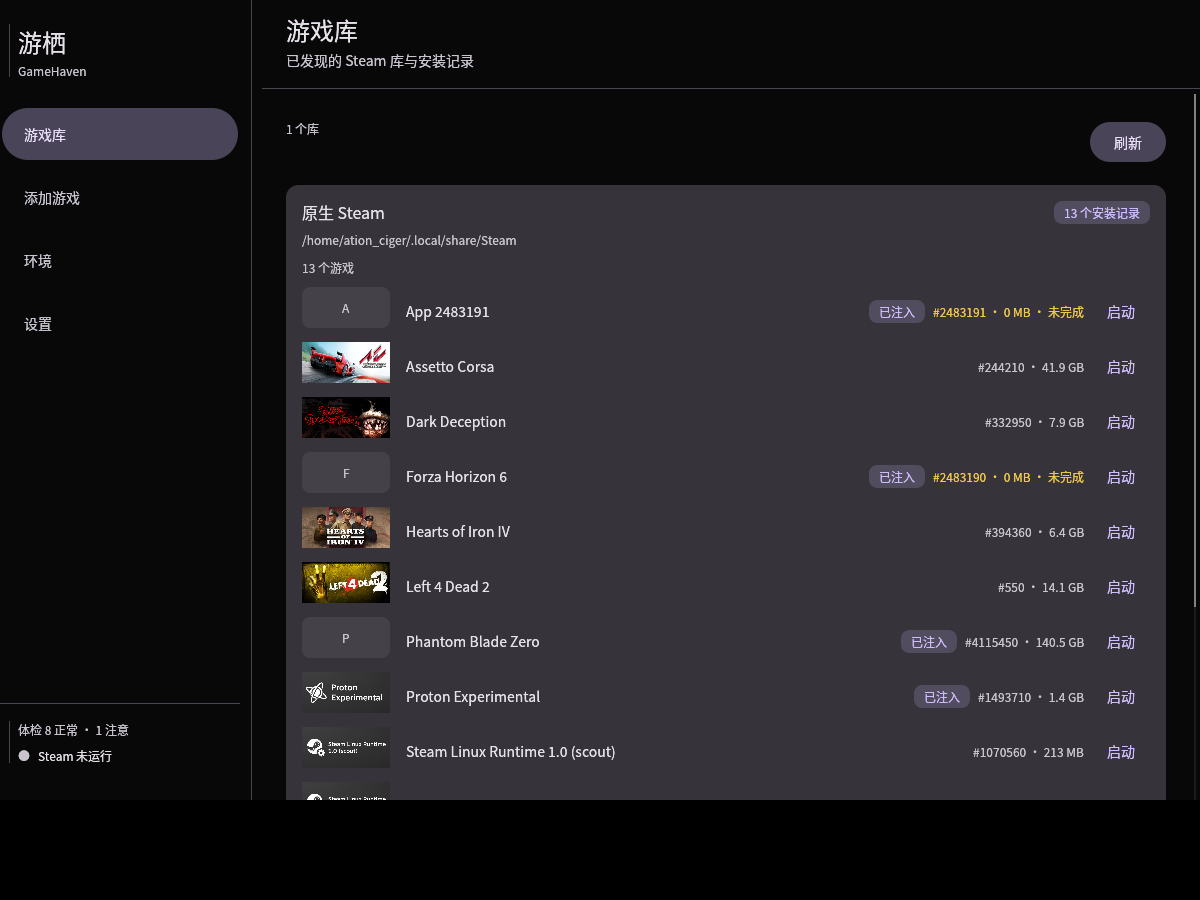
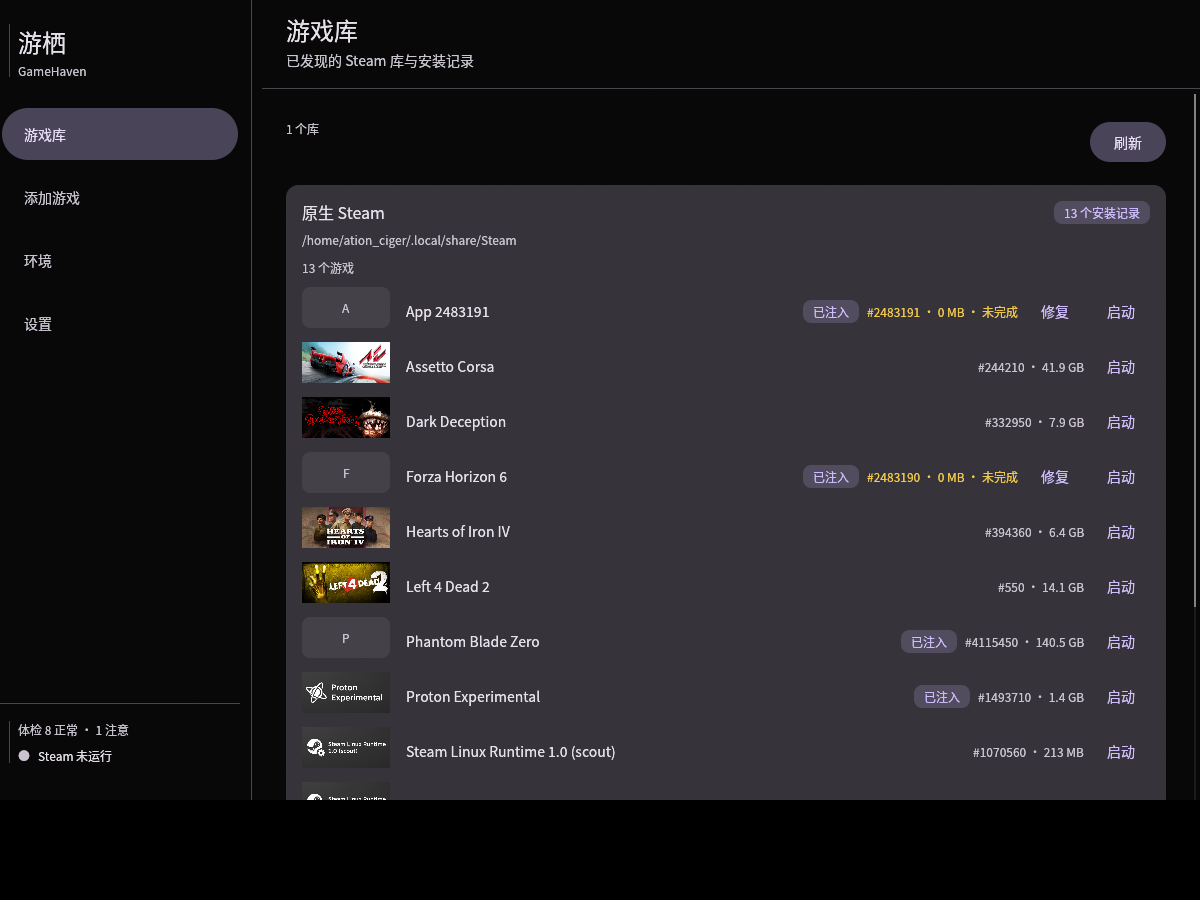
feat: repair incomplete ACF from actual files
- acf 模块新增 repair / dir_size：按目录实际大小重写 SizeOnDisk、StateFlags、LastUpdated
- 库页未完成记录新增「修复」，后台计算目录大小并重写 ACF
- 修复结果与启动结果统一显示在列表下方

Changed region(s): [[0.6475, 0.4978, 0.8942, 0.56], [0.6475, 0.3111, 0.8942, 0.3733]]

diff --git a/src/steam/acf.rs b/src/steam/acf.rs
@@ -35,6 +35,58 @@ pub fn path(steamapps: &Path, app_id: u32) -> PathBuf {
     steamapps.join(format!("appmanifest_{app_id}.acf"))
 }
 
+/// 递归统计目录大小，跳过符号链接，避免循环。
+pub fn dir_size(path: &Path) -> u64 {
+    let Ok(entries) = fs::read_dir(path) else {
+        return 0;
+    };
+    let mut total = 0;
+    for entry in entries.flatten() {
+        let Ok(metadata) = fs::symlink_metadata(entry.path()) else {
+            continue;
+        };
+        if metadata.file_type().is_symlink() {
+            continue;
+        }
+        if metadata.is_dir() {
+            total += dir_size(&entry.path());
+        } else if metadata.is_file() {
+            total += metadata.len();
+        }
+    }
+    total
+}
+
+/// 按实际目录大小修复已有 ACF 的 `SizeOnDisk` / `StateFlags` / `LastUpdated`。
+pub fn repair(steamapps: &Path, app_id: u32, size_on_disk: u64) -> Result<PathBuf, String> {
+    let target = path(steamapps, app_id);
+    let text = fs::read_to_string(&target)
+        .map_err(|error| format!("无法读取 {}：{error}", target.display()))?;
+    let now = SystemTime::now()
+        .duration_since(UNIX_EPOCH)
+        .map(|duration| duration.as_secs())
+        .unwrap_or(0);
+    let mut lines: Vec<String> = text.lines().map(str::to_owned).collect();
+    for line in &mut lines {
+        let trimmed = line.trim_start();
+        if trimmed.starts_with("\"SizeOnDisk\"") {
+            *line = format!("\t\"SizeOnDisk\"\t\t\"{size_on_disk}\"");
+        } else if trimmed.starts_with("\"StateFlags\"") {
+            *line = "\t\"StateFlags\"\t\t\"4\"".to_owned();
+        } else if trimmed.starts_with("\"LastUpdated\"") {
+            *line = format!("\t\"LastUpdated\"\t\t\"{now}\"");
+        }
+    }
+    let backup = target.with_extension("acf.bak");
+    fs::copy(&target, &backup)
+        .map_err(|error| format!("无法备份 {}：{error}", backup.display()))?;
+    let mut output = lines.join("\n");
+    output.push('\n');
+    fs::write(&target, output)
+        .map_err(|error| format!("无法写入 {}：{error}", target.display()))?;
+    Ok(target)
+}
+
 pub fn write(steamapps: &Path, game: &GameInfo<'_>) -> Result<PathBuf, String> {
     let target = path(steamapps, game.app_id);
     if let Some(parent) = target.parent() {
@@ -117,6 +169,32 @@ mod tests {
         assert_eq!(sanitize_installdir("Forza Horizon 6"), "Forza Horizon 6");
         assert_eq!(sanitize_installdir("a/b:c*?"), "a_b_c__");
         assert_eq!(sanitize_installdir("  ..  "), "Game");
+    }
+
+    #[test]
+    fn repairs_size_and_state_flags() {
+        let directory = tempfile::tempdir().unwrap();
+        let steamapps = directory.path();
+        let target = path(steamapps, 10);
+        fs::write(
+            &target,
+            "\"AppState\"\n{\n\t\"StateFlags\"\t\t\"0\"\n\t\"SizeOnDisk\"\t\t\"0\"\n\t\"InstalledDepots\"\n\t{\n\t}\n}\n",
+        )
+        .unwrap();
+        repair(steamapps, 10, 4096).unwrap();
+        let text = fs::read_to_string(&target).unwrap();
+        assert!(text.contains("\"SizeOnDisk\"\t\t\"4096\""));
+        assert!(text.contains("\"StateFlags\"\t\t\"4\""));
+        assert!(target.with_extension("acf.bak").exists());
+    }
+
+    #[test]
+    fn sums_directory_size() {
+        let directory = tempfile::tempdir().unwrap();
+        fs::write(directory.path().join("a.bin"), vec![0u8; 100]).unwrap();
+        fs::create_dir(directory.path().join("sub")).unwrap();
+        fs::write(directory.path().join("sub/b.bin"), vec![0u8; 50]).unwrap();
+        assert_eq!(dir_size(directory.path()), 150);
     }
 
     #[test]

diff --git a/src/main.rs b/src/main.rs
@@ -52,6 +52,12 @@ impl Page {
     }
 }
 
+pub(crate) enum RepairJob {
+    Idle,
+    Running(Receiver<Result<String, String>>),
+    Done(Result<String, String>),
+}
+
 pub(crate) enum RestartState {
     Idle,
     Running(Receiver<Result<String, String>>),
@@ -247,6 +253,7 @@ pub(crate) struct GameHaven {
     pub(crate) remove_result: Option<Result<String, String>>,
     pub(crate) account_result: Option<Result<String, String>>,
     pub(crate) launch_result: Option<Result<String, String>>,
+    pub(crate) repair: RepairJob,
     pub(crate) auto_restart: bool,
 }
 
@@ -321,6 +328,7 @@ impl GameHaven {
             remove_result: None,
             account_result: None,
             launch_result: None,
+            repair: RepairJob::Idle,
             auto_restart: true,
         })
     }
@@ -331,6 +339,7 @@ impl GameHaven {
         self.covers.poll(ctx);
         self.env.poll(ctx);
         self.poll_restart(ctx);
+        self.poll_repair(ctx);
         self.download.poll(ctx, &mut self.app_id);
     }
 
@@ -443,6 +452,55 @@ impl GameHaven {
             self.env.refresh(ctx);
         } else {
             self.remove_result = Some(Err(errors.join(" ")));
+        }
+    }
+
+    pub(crate) fn start_repair(
+        &mut self,
+        library: &steam_library::Library,
+        app_id: u32,
+        installdir: &str,
+        ctx: &egui::Context,
+    ) {
+        if matches!(self.repair, RepairJob::Running(_)) {
+            return;
+        }
+        let steamapps = library.path.join("steamapps");
+        let game_dir = steamapps.join("common").join(installdir);
+        let ctx = ctx.clone();
+        let (sender, receiver) = mpsc::sync_channel(1);
+        match thread::Builder::new()
+            .name("steam-acf".into())
+            .spawn(move || {
+                let size = steam::acf::dir_size(&game_dir);
+                let result = steam::acf::repair(&steamapps, app_id, size).map(|path| {
+                    journal::record(&format!("修复 ACF：{app_id}，SizeOnDisk {size}"));
+                    format!("已修复 {}（{} 字节）。", path.display(), size)
+                });
+                let _ = sender.send(result);
+                ctx.request_repaint();
+            }) {
+            Ok(_) => self.repair = RepairJob::Running(receiver),
+            Err(error) => {
+                self.repair = RepairJob::Done(Err(format!("无法启动修复任务（{error}）。")));
+            }
+        }
+    }
+
+    fn poll_repair(&mut self, ctx: &egui::Context) {
+        let result = match &self.repair {
+            RepairJob::Running(receiver) => match receiver.try_recv() {
+                Ok(result) => Some(result),
+                Err(TryRecvError::Empty) => {
+                    ctx.request_repaint_after(Duration::from_millis(200));
+                    None
+                }
+                Err(TryRecvError::Disconnected) => Some(Err("修复任务意外结束。".to_owned())),
+            },
+            _ => None,
+        };
+        if let Some(result) = result {
+            self.repair = RepairJob::Done(result);
         }
     }
 

diff --git a/src/pages/library.rs b/src/pages/library.rs
@@ -14,12 +14,18 @@ use crate::widgets;
 ///
 /// `game_row` 是自由函数，拿不到 `&mut GameHaven`，所以行内只返回动作，由页面层收集后统一下发。
 /// 「启动」需要知道走哪个客户端，因此带上库索引。
-#[derive(Clone, Copy)]
+#[derive(Clone)]
 enum RowAction {
     /// 二次确认后移除这个 AppID 的注入。
     Remove(u32),
     /// 用 `libraries[library]` 对应的客户端启动 `app_id`。
     Launch { library: usize, app_id: u32 },
+    /// 按实际目录大小修复这个 AppID 的 ACF。
+    Repair {
+        library: usize,
+        app_id: u32,
+        installdir: String,
+    },
 }
 
 impl GameHaven {
@@ -78,6 +84,15 @@ impl GameHaven {
                         self.launch_game(library, app_id);
                     }
                 }
+                RowAction::Repair {
+                    library,
+                    app_id,
+                    installdir,
+                } => {
+                    if let Some(library) = libraries.get(library) {
+                        self.start_repair(library, app_id, &installdir, &ctx);
+                    }
+                }
             }
         }
 
@@ -86,6 +101,9 @@ impl GameHaven {
             result_line(ui, result);
         }
         if let Some(result) = &self.launch_result {
+            result_line(ui, result);
+        }
+        if let crate::RepairJob::Done(result) = &self.repair {
             result_line(ui, result);
         }
 
@@ -218,6 +236,16 @@ fn game_row(
                 action = Some(RowAction::Launch {
                     library: library_index,
                     app_id: app.app_id,
+                });
+            }
+            // 未完成的记录可以按实际目录大小重写 ACF。
+            if incomplete
+                && widgets::text_button(ui, &format!("repair-{}", app.app_id), "修复")
+            {
+                action = Some(RowAction::Repair {
+                    library: library_index,
+                    app_id: app.app_id,
+                    installdir: app.installdir.clone(),
                 });
             }
             ui.label(RichText::new(meta).size(design::TEXT_LABEL).color(variant));

diff --git a/README.md b/README.md
@@ -25,7 +25,7 @@ X11 与 Wayland 都可以运行。
 
 | 页面 | 能做什么 |
 | --- | --- |
-| 游戏库 | 发现原生 / Flatpak Steam 库；列出 `appmanifest` 里的已安装游戏、占用空间和「未完成」标记；标出已注入 SLSsteam 的游戏，点击标记可移除注入 |
+| 游戏库 | 发现原生 / Flatpak Steam 库；加载封面，列出已安装游戏、占用空间和「未完成」标记；标出已注入 SLSsteam 的游戏，点击标记可移除注入；未完成记录可一键按实际目录修复 ACF；每行可直接启动 |
 | 添加游戏 | 按名称搜索商店，或用 AppID 查询；把游戏和商店列出的 DLC 一起写入 `AdditionalApps` / `DlcData`，可选写入后重启 Steam；解析本地清单并匿名下载单个 Depot；导入本地 `.manifest` 并写 `ManifestIds` / `depotcache` / ACF |
 | 环境 | 体检汇总 chip + 检查项列表（正常项折叠）；一键重启 Steam 并校验注入 |
 | 设置 | 自动重启开关、Steam 账号切换（改写 `loginusers.vdf` 的 `MostRecent`）、最近操作日志、路径、版本与许可证 |
